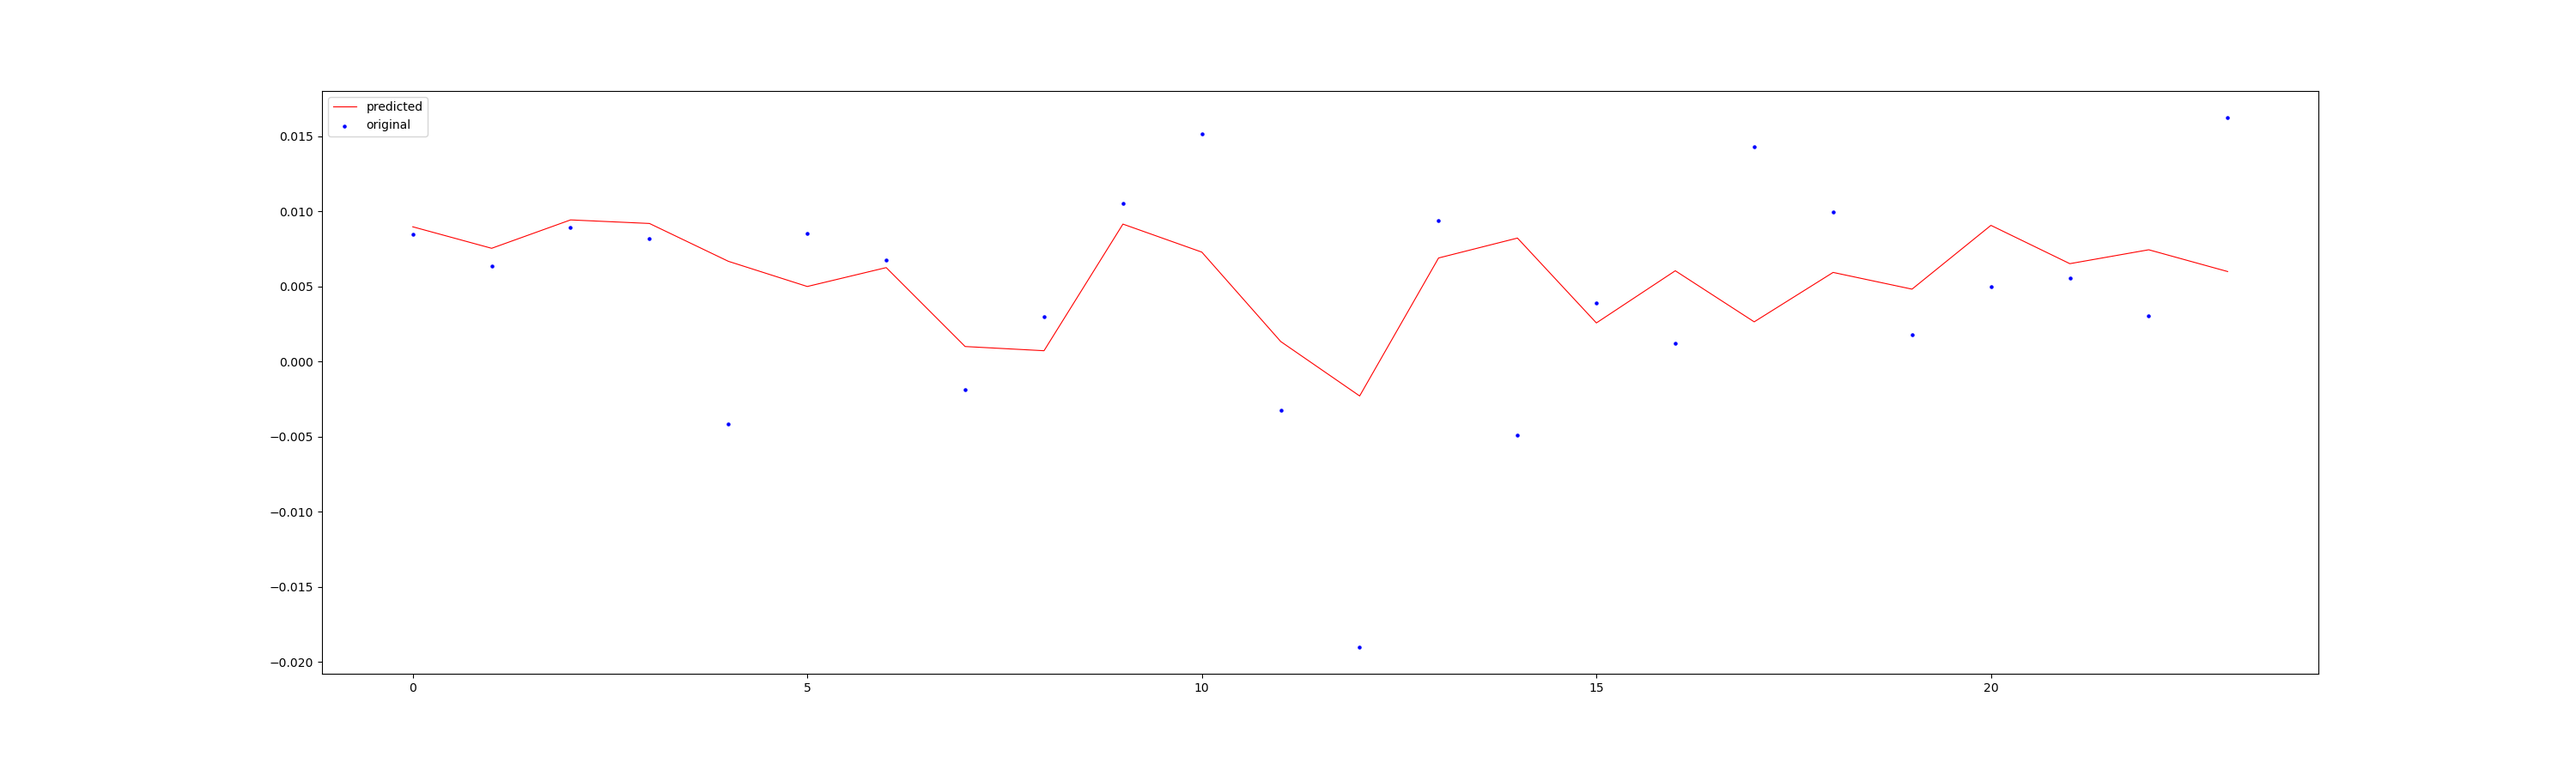
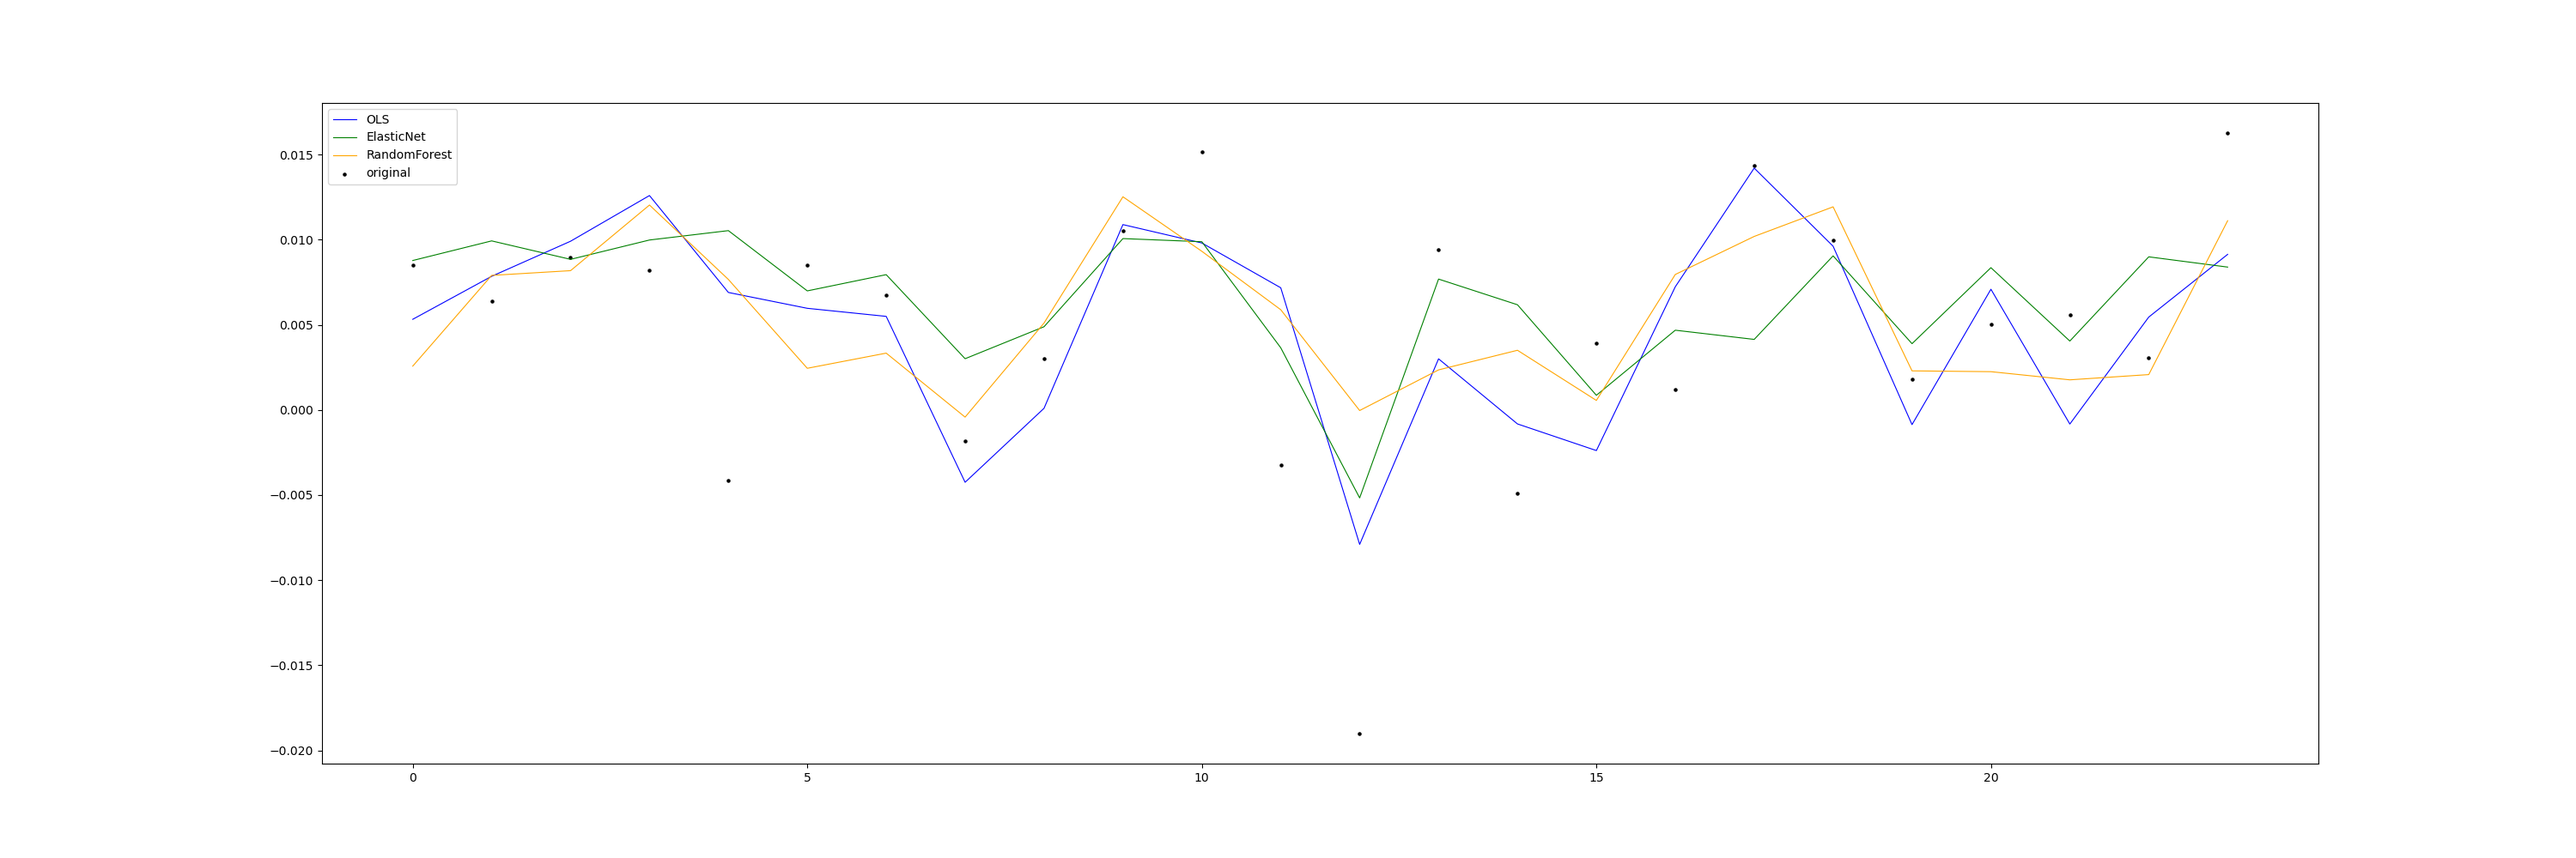
Added models

diff --git a/05_Quant_Data.py b/05_Quant_Data.py
@@ -1,3 +1,5 @@
+import pickle
+
 import pandas as pd
 import numpy as np
 from matplotlib import pyplot as plt
@@ -6,68 +8,39 @@ import datetime
 import seaborn as sns
 import sklearn
 import urllib.request
-from sklearn.linear_model import ElasticNetCV
-from sklearn.metrics import mean_squared_error
-from sklearn.model_selection import train_test_split
+
+from sklearn.ensemble import RandomForestRegressor
+from sklearn.linear_model import ElasticNetCV, ElasticNet, LinearRegression
+from sklearn.metrics import mean_squared_error, accuracy_score, r2_score
+from sklearn.model_selection import train_test_split, GridSearchCV
 from sklearn.preprocessing import StandardScaler
 
 # %% Download macro data -------------------------------------------------------------------------------------
 
 # import data from fred
-start = datetime.datetime(1999, 9, 1) #sentiment indicator starts from 2000
+start = datetime.datetime(1999, 9, 1)  # sentiment indicator starts from 2000
 end = datetime.date.today()
 
-GDP_data = web.DataReader('CPMNACSAB1GQCH', 'fred', start, end).to_period('Q') # Gross Domestic Product for Switzerland (CPMNACSAB1GQCH)	
-Unemp_data = web.DataReader('LMUNRRTTCHQ156N', 'fred', start, end).to_period('Q') # Registered Unemployment Rate for Switzerland (LMUNRRTTCHQ156N)
-rec_indicator = web.DataReader('CHEREC', 'fred', start, end).to_period('Q') # OECD based Recession Indicators for Switzerland from the Period following the Peak through the Trough (CHEREC)
-Import_data = web.DataReader('CHEIMPORTQDSMEI', 'fred', start, end).to_period('Q') # Imports of Goods and Services in Switzerland (CHEIMPORTQDSMEI)
-Export_data = web.DataReader('CHEEXPORTQDSMEI', 'fred', start, end).to_period('Q') # Exports of Goods and Services in Switzerland (CHEEXPORTQDSMEI)
-GovSpend_data = web.DataReader('CHEGFCEQDSMEI', 'fred', start, end).to_period('Q') # Government Final Consumption Expenditure in Switzerland (CHEGFCEQDSMEI)	
-Consumption_data = web.DataReader('CHEPFCEQDSMEI', 'fred', start, end).to_period('Q') #Private Final Consumption Expenditure in Switzerland (CHEPFCEQDSMEI)	
+GDP_data = web.DataReader('CPMNACSAB1GQCH', 'fred', start, end).to_period(
+    'Q')  # Gross Domestic Product for Switzerland (CPMNACSAB1GQCH)
+Unemp_data = web.DataReader('LMUNRRTTCHQ156N', 'fred', start, end).to_period(
+    'Q')  # Registered Unemployment Rate for Switzerland (LMUNRRTTCHQ156N)
+rec_indicator = web.DataReader('CHEREC', 'fred', start, end).to_period(
+    'Q')  # OECD based Recession Indicators for Switzerland from the Period following the Peak through the Trough (
+# CHEREC)
+Import_data = web.DataReader('CHEIMPORTQDSMEI', 'fred', start, end).to_period(
+    'Q')  # Imports of Goods and Services in Switzerland (CHEIMPORTQDSMEI)
+Export_data = web.DataReader('CHEEXPORTQDSMEI', 'fred', start, end).to_period(
+    'Q')  # Exports of Goods and Services in Switzerland (CHEEXPORTQDSMEI)
+GovSpend_data = web.DataReader('CHEGFCEQDSMEI', 'fred', start, end).to_period(
+    'Q')  # Government Final Consumption Expenditure in Switzerland (CHEGFCEQDSMEI)
+Consumption_data = web.DataReader('CHEPFCEQDSMEI', 'fred', start, end).to_period(
+    'Q')  # Private Final Consumption Expenditure in Switzerland (CHEPFCEQDSMEI)
 
 # import the sentiment indicator
-NetSentiment_data = pd.read_csv('data/NetSentiment').rename(columns={'date':'DATE', '0':'Sentiment'})
-NetSentiment_data['DATE'] = pd.to_datetime(NetSentiment_data['DATE']).dt.to_period('Q') #transform date into quarter
+NetSentiment_data = pd.read_csv('data/NetSentiment').rename(columns={'date': 'DATE', '0': 'Sentiment'})
+NetSentiment_data['DATE'] = pd.to_datetime(NetSentiment_data['DATE']).dt.to_period('Q')  # transform date into quarter
 NetSentiment_data = NetSentiment_data.groupby('DATE').sum()
-
-
-# GDP_url = "https://sdw.ecb.europa.eu/quickviewexport.do;jsessionid=44DBD7559D119BEF9DA13CCEB70C23E1?SERIES_KEY=MNA.Q.Y.I8.W2.S1.S1.B.B1GQ._Z._Z._Z.EUR.V.N&type=csv"
-# Eurlibor_url = "https://sdw.ecb.europa.eu/quickviewexport.do;jsessionid=0014F48DEAEA2500294F6E3962E49775?SERIES_KEY=143.FM.M.U2.EUR.RT.MM.EURIBOR1YD_.HSTA&type=csv"
-# Consumption_url = "https://sdw.ecb.europa.eu/quickviewexport.do;jsessionid=1573D4C068E9F1CA1116D3998B81380E?SERIES_KEY=MNA.Q.Y.I8.W0.S1M.S1.D.P31._Z._Z._T.EUR.V.N&type=csv"
-# GovSpend_url = "https://sdw.ecb.europa.eu/quickviewexport.do;jsessionid=3F35BD60FBC44B0E9380EFA27A0622CF?SERIES_KEY=MNA.Q.Y.I8.W0.S13.S1.D.P3._Z._Z._T.EUR.V.N&type=csv"
-# Export_url = "https://sdw.ecb.europa.eu/quickviewexport.do;jsessionid=5A4DE9E92D17B294D6A5315EE8355389?SERIES_KEY=MNA.Q.Y.I8.W1.S1.S1.D.P6._Z._Z._Z.EUR.V.N&type=csv"
-# Import_url = "https://sdw.ecb.europa.eu/quickviewexport.do;jsessionid=E521FE1B420F2DADB8A4B3B88B00B6A9?SERIES_KEY=MNA.Q.Y.I8.W1.S1.S1.C.P7._Z._Z._Z.EUR.V.N&type=csv"
-# Unemp_url = "https://sdw.ecb.europa.eu/quickviewexport.do;jsessionid=B3312C4AA394270B0016D1C9BFD78ECB?SERIES_KEY=ENA.Q.Y.I8.W2.S1.S1._Z.EMP._Z._T._Z.PS._Z.N&type=csv"
-
-# # GDP typically consisty of Y = C + I + G + (X-M)
-# urllib.request.urlretrieve(GDP_url, "data/GDP_data.csv")
-# urllib.request.urlretrieve(Eurlibor_url, "data/Eurlibor_data.csv")
-# urllib.request.urlretrieve(Consumption_url, "data/Consumption_data.csv")
-# urllib.request.urlretrieve(GovSpend_url, "data/GovSpend_data.csv")
-# urllib.request.urlretrieve(Export_url, "data/Export_data.csv")
-# urllib.request.urlretrieve(Import_url, "data/Import_data.csv")
-# urllib.request.urlretrieve(Unemp_url, "data/Unemp_data.csv")
-
-# GDP_data = pd.read_csv('data/GDP_data.csv', skiprows=range(1, 5))
-# Eurlibor_data = pd.read_csv('data/Eurlibor_data.csv', skiprows=range(1, 5))
-# Consumption_data = pd.read_csv('data/Consumption_data.csv', skiprows=range(1, 5))
-# GovSpend_data = pd.read_csv('data/GovSpend_data.csv', skiprows=range(1, 5))
-# Export_data = pd.read_csv('data/Export_data.csv', skiprows=range(1, 5))
-# Import_data = pd.read_csv('data/Import_data.csv', skiprows=range(1, 5))
-# Unemp_data = pd.read_csv('data/Unemp_data.csv', skiprows=range(1, 5))
-
-
-
-# %% Data Cleaning
-
-# Convert absolutes to change over period
-# GDP_data = GDP_data.multiply(10 ^ 6).pct_change(-1)
-# Consumption_data = Consumption_data.multiply(10 ^ 6).pct_change(-1)
-# GovSpend_data = GovSpend_data.multiply(10 ^ 6).pct_change(-1)
-# Export_data = Export_data.multiply(10 ^ 6).pct_change(-1)
-# Import_data = Import_data.multiply(10 ^ 6).pct_change(-1)
-# Unemp_data = Unemp_data.multiply(10 ^ 6).pct_change(-1)
-
 
 GDP_data = np.log(GDP_data).diff()
 Consumption_data = np.log(Consumption_data).diff()
@@ -76,12 +49,11 @@ Export_data = np.log(Export_data).diff()
 Import_data = np.log(Import_data).diff()
 Unemp_data = np.log(Unemp_data).diff()
 
-
 # Construct final DataFrame
 data = [GDP_data, Consumption_data, GovSpend_data, Export_data, Import_data, Unemp_data, NetSentiment_data]
 data = pd.concat(data, axis=1)
 data.columns = ["GDP", "Consumption", "GovSpend", "Exports", "Imports", "Unemp", 'NetSentiment']
-data.index = data.index.to_timestamp() 
+data.index = data.index.to_timestamp()
 
 # remove NA caused by growth rate calculation
 data = data.dropna()
@@ -110,36 +82,70 @@ fig.set_size_inches(12, 8)
 
 fig.savefig('plots/economic_varibales.png', dpi=300)
 
-
 # %% Model Prep
 
 # split data into X / Y
-#Y = data['GDP_gr']
 Y = data['GDP']
 X = data.loc[:, data.columns != 'GDP']
-#X = StandardScaler().fit_transform(X)  # Standardize
 
 # Split data into train / test
 X_train, X_test, y_train, y_test = train_test_split(X, Y, test_size=0.3, random_state=2020)
 
 # %% Model Train
 
-alphas = [0.0001, 0.001, 0.01, 0.1, 0.3, 0.5, 0.7, 1]
-elastic_cv = ElasticNetCV(alphas=alphas, cv=5)
+# specify models and parameters
+model_OLS = LinearRegression()
+param_OLS = {'fit_intercept': [True, False],
+             'normalize': [True, False]}
 
-model = elastic_cv.fit(X_train, y_train)
-y_pred = model.predict(X_test)
-score = model.score(X_test, y_test)
-mse = mean_squared_error(y_test, y_pred)
+grid_OLS = GridSearchCV(model_OLS, param_OLS, cv=5, verbose=0, n_jobs=-1, return_train_score=True)
+grid_OLS = grid_OLS.fit(X_train, y_train)
+y_pred_OLS = grid_OLS.predict(X_test)
 
-print("R2:{0:.4f}, MSE:{1:.4f}, RMSE:{2:.4f}".format(score, mse, np.sqrt(mse)))
+model_ELN = ElasticNet()
+param_ELN = {'alpha': [0.0001, 0.001, 0.01, 0.1, 0.3, 0.5, 0.7, 1]}
+
+grid_ELN = GridSearchCV(model_ELN, param_ELN, cv=5, verbose=0, n_jobs=-1, return_train_score=True)
+grid_ELN = grid_ELN.fit(X_train, y_train)
+y_pred_ELN = grid_ELN.predict(X_test)
+
+model_RF = RandomForestRegressor()
+param_RF = {
+    'bootstrap': [True, False],
+    'max_depth': [10, 50, 100, 500, 1000],
+    'min_samples_split': [2, 5, 10],
+    'n_estimators': [10, 100, 500]
+}
+
+grid_RF = GridSearchCV(model_RF, param_RF, cv=5, verbose=0, n_jobs=-1, return_train_score=True)
+grid_RF = grid_RF.fit(X_train, y_train)
+y_pred_RF = grid_RF.predict(X_test)
+
+# group
+models = [model_OLS, model_ELN, model_RF]
+parameters = [param_OLS, param_ELN, param_RF]
+grids = [grid_OLS, grid_ELN, grid_RF]
+y_preds = [y_pred_OLS, y_pred_ELN, y_pred_RF]
+
+# calculate scores
+for model, param, grid, y_pred in zip(models, parameters, grids, y_preds):
+    name = type(model).__name__
+    print("Tuning Hyperparameters: {}".format(name))
+
+    #print("Score: ", grid.score(y_test, y_pred))
+    print("MSE: ", mean_squared_error(y_test, y_pred))
+    print("R2: ", r2_score(y_test, y_pred))
+
+    with open("models/gridsearch_{}.pkl".format(name), 'wb') as file:
+        pickle.dump(grid, file)
 
 # %% Plot results
-plt.figure(figsize=(30,10))
-
+plt.figure(figsize=(30, 10))
 x_ax = range(len(X_test))
-plt.scatter(x_ax, y_test, s=5, color='blue', label='original')
-plt.plot(x_ax, y_pred, lw=0.8, color='red', label='predicted')
+plt.scatter(x_ax, y_test, s=5, color='black', label='original')
+plt.plot(x_ax, y_pred_OLS, lw=0.8, color='blue', label='OLS')
+plt.plot(x_ax, y_pred_ELN, lw=0.8, color='green', label='ElasticNet')
+plt.plot(x_ax, y_pred_RF, lw=0.8, color='orange', label='RandomForest')
 plt.legend()
-plt.show()
+#plt.show()
 plt.savefig('plots/model_results.png')
